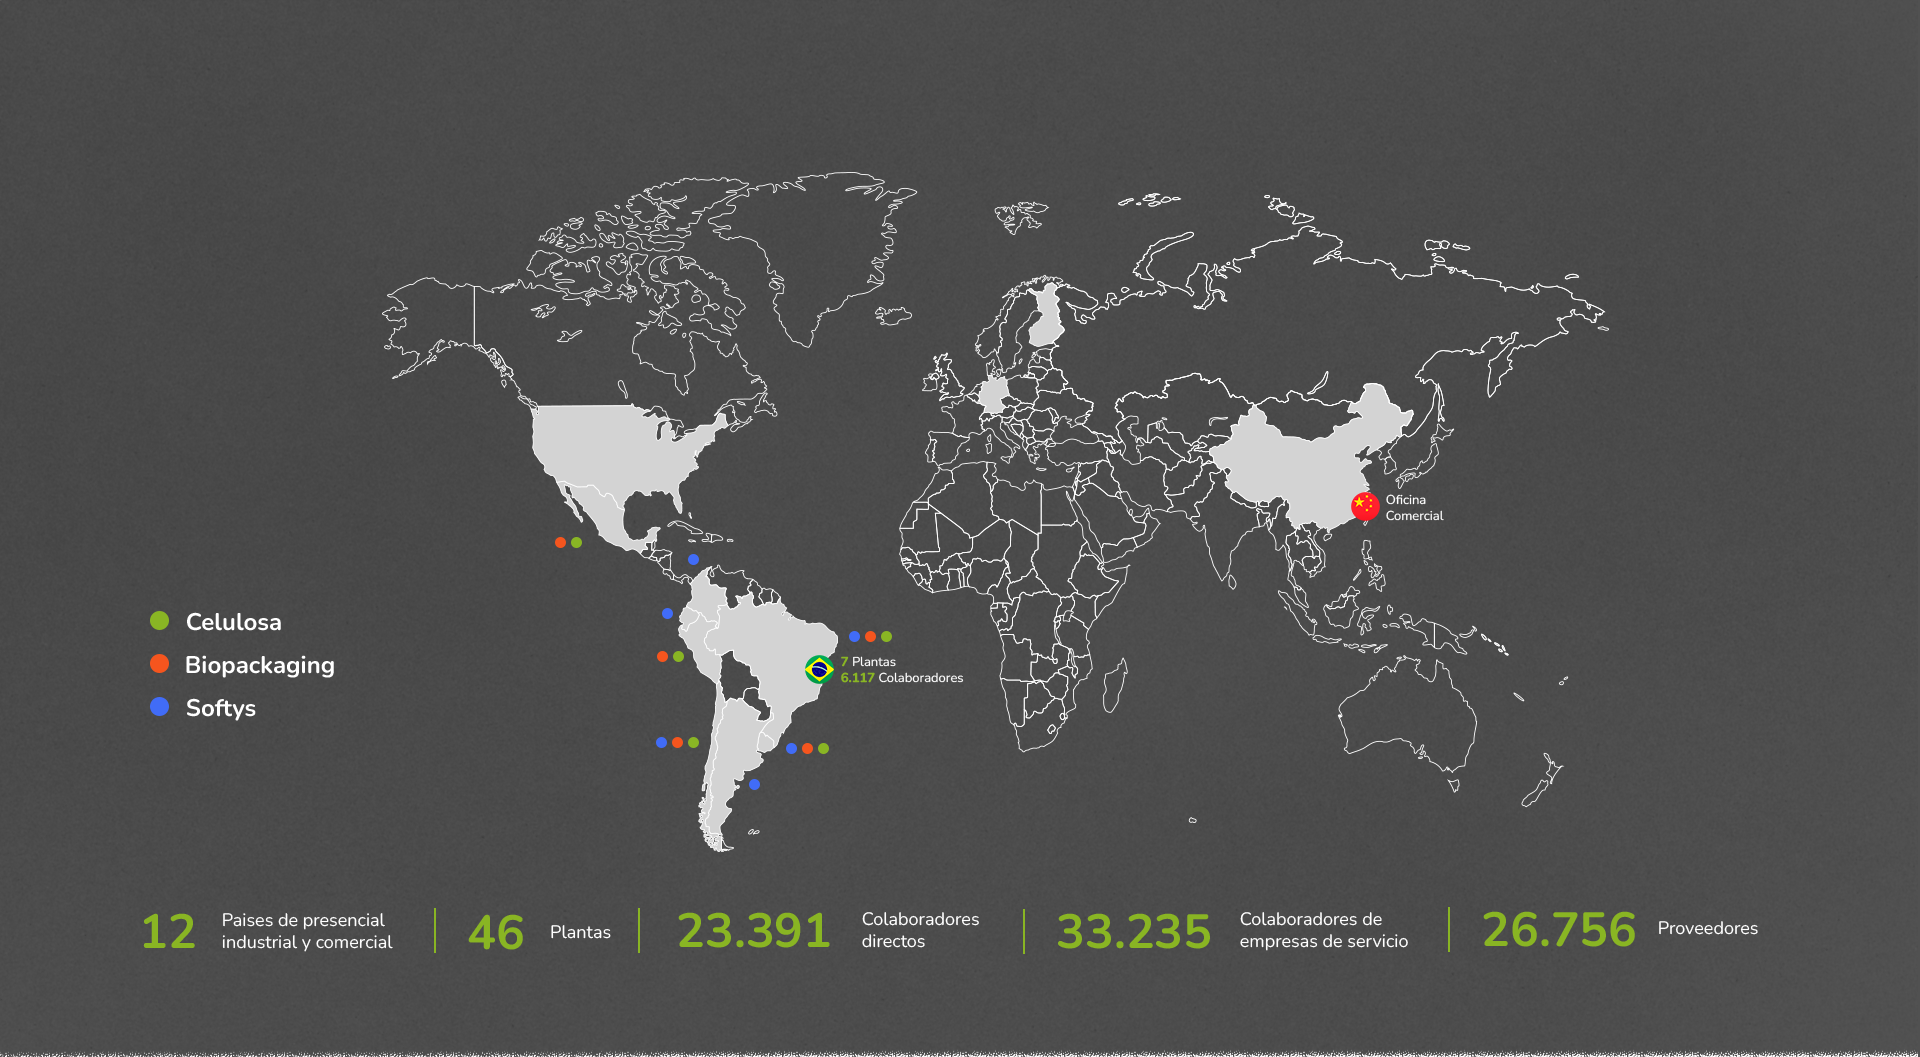
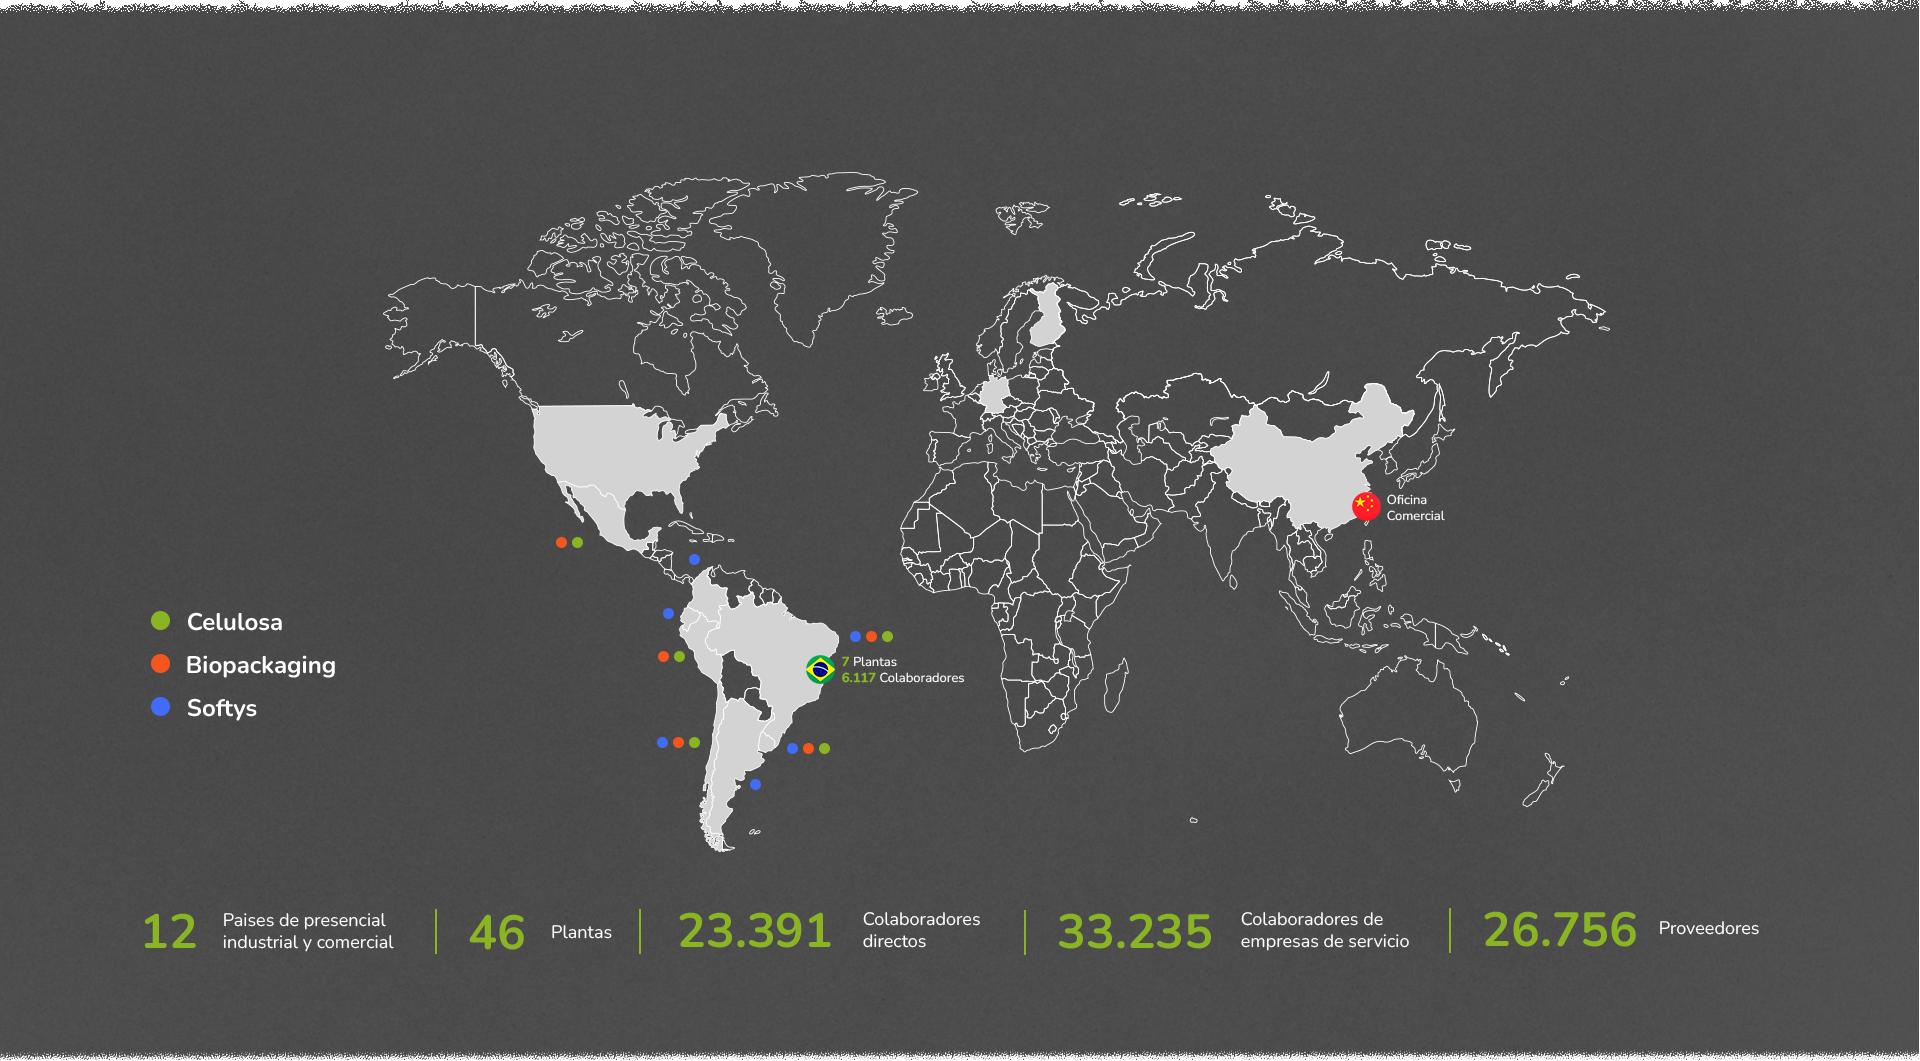
add cards

diff --git a/quienessomos.html b/quienessomos.html
@@ -113,43 +113,46 @@
     </div>
   </div>
  </section>  
-  <div class="container mt-5">
-    <div class="row text-center">
-      <div class="text-center mb-5">
-        <h2>Valores</h2>
-      </div>
-      <div class="col-sm-6 col-md-3">
-        <div class="card bg-transparent border-0 shadow">
-          <img src="https://via.placeholder.com/150" class="card-img-top h-100" alt="...">
-          <div class="card-body">
-            <p class="card-text text-dark">Trabajamos en equipo fortaleciendo la horizontalidad, el sentido de responsabilidad y el empoderamiento con la convicción de alcanzar la excelencia y crear valor para nuestros clientes y la sociedad. Entregamos lo mejor de nosotros en cada cosa que hacemos.</p>
-          </div>
+
+
+
+ <div class="container valores mt-5">
+  <div class="row text-center card-valores">
+    <div class="text-center mb-5">
+      <h2>Valores</h2>
+    </div>
+    <div class="col-sm-6 col-md-3">
+      <div class="card bg-white border-0 shadow">
+        <img src="img/somos/colaboracion.png" class="card-img-top h-100 d-flex align-self-center mt-5 mb-5" alt="...">
+        <div class="card-body">
+          <p class="card-text text-dark text-val">Trabajamos en equipo fortaleciendo la horizontalidad, el sentido de responsabilidad y el empoderamiento con la convicción de alcanzar la excelencia y crear valor para nuestros clientes y la sociedad. Entregamos lo mejor de nosotros en cada cosa que hacemos.</p>
         </div>
       </div>
-      <div class="col-sm-6 col-md-3">
-        <div class="card bg-transparent border-0 shadow">
-          <img src="https://via.placeholder.com/150" class="card-img-top h-100" alt="...">
-          <div class="card-body">
-            <p class="card-text text-dark">Actuamos con honestidad, transparencia y humildad, honrando nuestra palabra y haciéndonos responsables de nuestras acciones y sus consecuencias. Construimos vínculos de confianza comprometiéndonos en todas nuestras relaciones a crear valor compartido y crecer juntos.</p>
-          </div>
+    </div>
+    <div class="col-sm-6 col-md-3">
+      <div class="card bg-white border-0 shadow">
+        <img src="img/somos/integridad.png" class="card-img-top h-100 d-flex align-self-center mt-5 mb-5" alt="...">
+        <div class="card-body">
+          <p class="card-text text-dark text-val">Actuamos con honestidad, transparencia y humildad, honrando nuestra palabra y haciéndonos responsables de nuestras acciones y sus consecuencias. Construimos vínculos de confianza comprometiéndonos en todas nuestras relaciones a crear valor compartido y crecer juntos.</p>
         </div>
       </div>
-      <div class="col-sm-6 col-md-3">
-        <div class="card bg-transparent border-0 shadow">
-          <img src="https://via.placeholder.com/150" class="card-img-top h-100" alt="...">
-          <div class="card-body">
-            <p class="card-text text-dark">Tomamos decisiones y expresamos nuestras ideas con valentía desafiándonos constantemente. Buscamos aprender de nuestros errores y desarrollar ideas innovadoras para crear soluciones con visión de futuro, siendo líderes en lo que hacemos.</p>
-          </div>
+    </div>
+    <div class="col-sm-6 col-md-3">
+      <div class="card bg-white border-0 shadow">
+        <img src="img/somos/coraje.png" class="card-img-top h-100 d-flex align-self-center mt-5 mb-5" alt="...">
+        <div class="card-body">
+          <p class="card-text text-dark text-val">Tomamos decisiones y expresamos nuestras ideas con valentía desafiándonos constantemente. Buscamos aprender de nuestros errores y desarrollar ideas innovadoras para crear soluciones con visión de futuro, siendo líderes en lo que hacemos.</p>
         </div>
       </div>
-      <div class="col-sm-6 col-md-3">
-        <div class="card bg-transparent border-0 shadow">
-          <img src="https://via.placeholder.com/150" class="card-img-top h-100" alt="...">
-          <div class="card-body">
-            <p class="card-text text-dark">Nos comprometemos con la seguridad, el bienestar, el desarrollo y el cuidado de la vida de las personas y su entorno, tratándolas con dignidad, escuchándolas, valorando su diversidad y el aporte que cada persona hace desde su autenticidad.</p>
-          </div>
+    </div>
+    <div class="col-sm-6 col-md-3">
+      <div class="card bg-white border-0 shadow d-flex justify-content-center">
+        <img src="img/somos/respeto.png" class="card-img-top h-100 align-self-center mt-5 mb-5" alt="...">
+        <div class="card-body">
+          <p class="card-text text-dark text-val">Nos comprometemos con la seguridad, el bienestar, el desarrollo y el cuidado de la vida de las personas y su entorno, tratándolas con dignidad, escuchándolas, valorando su diversidad y el aporte que cada persona hace desde su autenticidad.</p>
         </div>
-      </div>    
+      </div>
+    </div>   
     </div>
   </div>
     
@@ -169,10 +172,10 @@
     <!-- CIFRAS -->
     <div style="box-sizing: border-box;">
     <div>
-     <img src="img/somos/cmpcifras.png" class="w-100 img-fluid d-block">
+     <img src="img/somos/cmpcifras.png" class="w-100 img-fluid d-block" style="margin-bottom: -28px">
      </div> 
      <div>
-      <img src="img/somos/mapa.png" class="w-100 img-fluid d-block" style="margin-top: -10px">     
+      <img src="img/somos/mapa.png" class="w-100 img-fluid d-block">     
     </div>
   </div>
     </div>

diff --git a/css/style.css b/css/style.css
@@ -782,6 +782,18 @@ width: 120px
   flex-wrap: wrap; /* Agrega flex-wrap para que los elementos se envuelvan en una nueva línea en pantallas pequeñas */
 }
 
+.text-val{
+ font-size: 16px;
+ padding-bottom: 22px;
+ color: #656565 !important;
+ padding-left: 14px;
+ padding-right: 14px ;
+}
+
+.card-valores img{
+ width: 150px;
+ 
+}
 
 
 
